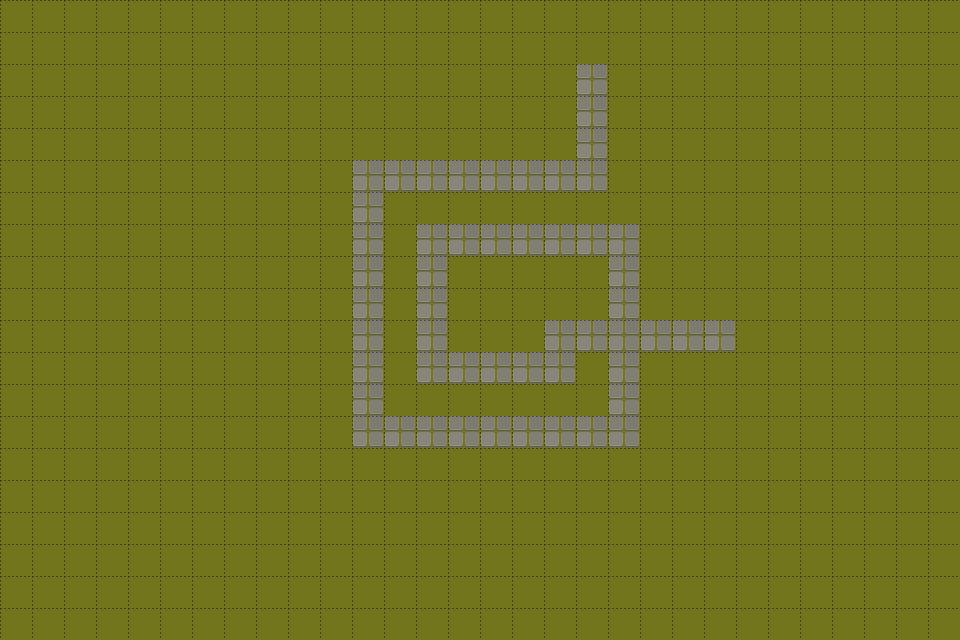
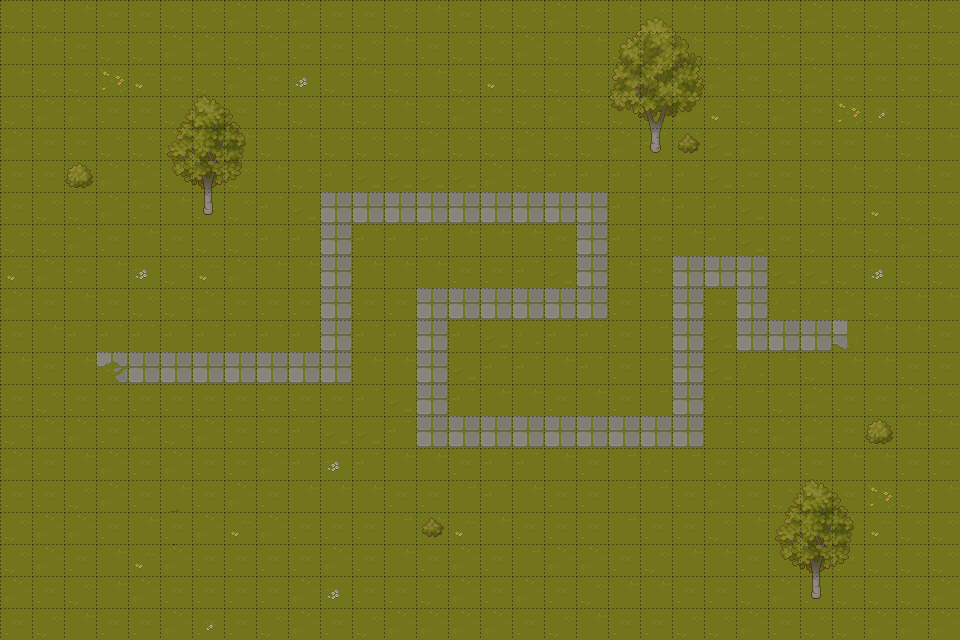
Add cancel button to defender menu

diff --git a/src/components/defender/DefenderMenu.js b/src/components/defender/DefenderMenu.js
@@ -7,10 +7,34 @@ import ButtonsConfig from '../../constants/ButtonsConfig';
 import utils from '../../helpers/utils';
 import Events from '../../constants/Events';
 
+const defenderMenuButtonsConfig = [
+    {
+        text: i18n.get('SELL'),
+        y: config.defenderMenu.sellButton.y,
+        property: '_sellButton',
+    },
+    {
+        text: i18n.get('CANCEL'),
+        y: config.defenderMenu.cancelButton.y,
+        property: '_cancelButton',
+    },
+];
+
+const defenderMenuTextConfig = [
+    {
+        text: `${i18n.get('REFUND')}:`,
+        x: config.defenderMenu.refund.x,
+        y: config.defenderMenu.refund.y,
+        property: '_refundText',
+    },
+];
+
 export default class DefenderMenu extends Container {
     constructor(){
         super();
         this._defender = null;
+        this._sellButton = null;
+        this._cancelButton = null;
         this._refundText = null;
 
         this.interactive = true;
@@ -25,9 +49,8 @@ export default class DefenderMenu extends Container {
 
     _createComponents() {
         this._createBackground();
-        this._createCancelButton();
-        this._createSellButton();
-        this._createRefundText();
+        defenderMenuButtonsConfig.forEach(componentData => this._createButton(componentData));
+        defenderMenuTextConfig.forEach(componentData => this._createText(componentData));
     }
 
     _createBackground() {
@@ -39,52 +62,33 @@ export default class DefenderMenu extends Container {
         this.addChild(graphics);
     }
 
-    _createSellButton() { // todo create circle
-        const button = new Button({
+    _createButton({text = '', y = 0, property = ''}) {
+        this[property] = new Button({
             ...ButtonsConfig.DEFAULT,
-            text: i18n.get('SELL'),
+            text,
             style: Styles.DEFAULT.BUTTON
         });
-        button.x = this.width / 2;
-        button.y = config.defenderMenu.sellButton.y;
-        this.addChild(button);
-
-        button.on('pointerdown', this._sellDefender, this)
+        this[property].x = this.width / 2;
+        this[property].y = y;
+        this.addChild(this[property]);
     }
 
-    _createRefundText() {
-        const text = new Text({text: `${i18n.get('REFUND')}:`, style: Styles.DEFAULT.TITLE});
-        text.x = config.defenderMenu.refund.x;
-        text.y = config.defenderMenu.refund.y;
+    _createText({text = '', x = 0, y = 0, property = ''}) {
+        const title = new Text({text, style: Styles.DEFAULT.TITLE});
+        title.x = x;
+        title.y = y;
 
-        this._refundText = new Text({text: '', style: Styles.DEFAULT.VALUE});
-        this._refundText.anchor.x = 1;
-        this._refundText.x = this.width - config.defenderMenu.refund.x;
-        this._refundText.y = config.defenderMenu.refund.y;
-        this.addChild(text, this._refundText);
+        this[property] = new Text({text: '', style: Styles.DEFAULT.VALUE});
+        this[property].anchor.x = 1;
+        this[property].x = this.width - x;
+        this[property].y = y;
+        this.addChild(title, this[property]);
     }
 
     _sellDefender() {
         if (!this._defender) return;
 
         app.emit(Events.SELL_DEFENDER, this._defender);
-    }
-
-    _isPressedButton(event) {
-        return this.children.some(child => child.isEnabled && child === event.target);
-    }
-
-    _addListeners() {
-        app.on(Events.TOGGLE_DEFENDER_MENU, this._toggle, this);
-        this.on('pointerdown', event => {
-            if (this._isPressedButton(event)) return;
-            event.stopPropagation();
-        }, this);
-    }
-
-    _removeListeners() {
-        this.removeAllListeners();
-        app.off(Events.TOGGLE_DEFENDER_MENU, this._toggle, this);
     }
 
     _toggle(defender) {
@@ -99,6 +103,55 @@ export default class DefenderMenu extends Container {
         this._refundText.text = config.characters[this._defender.type].refund;
     }
 
+    _showCancelButton() {
+        this._hideAllComponents();
+        this._cancelButton.visible = true;
+    }
+
+    _hideCancelButton() {
+        this._showAllComponents();
+        this._cancelButton.visible = false;
+    }
+
+    _cancelDefenderSpawn() {
+        app.emit(Events.CANCEL_DEFENDER_SPAWN);
+        this._hideCancelButton();
+    }
+
+    _showAllComponents() {
+        this.children.forEach(child => child.visible = true);
+    }
+
+    _hideAllComponents() {
+        this.children.forEach(child => {
+            if (child instanceof Graphics) return;
+            child.visible = false;
+        });
+    }
+
+    _addListeners() {
+        this._sellButton.on('pointerdown', this._sellDefender, this);
+        this._cancelButton.on('pointerdown', this._cancelDefenderSpawn, this);
+        app.on(Events.SPAWN_DEFENDER, this._showCancelButton, this);
+        app.on(Events.BUY_DEFENDER, this._hideCancelButton, this);
+        app.on(Events.TOGGLE_DEFENDER_MENU, this._toggle, this);
+        this.on('pointerdown', event => {
+            if (this._isPressedButton(event)) return;
+            event.stopPropagation();
+        }, this);
+    }
+
+    _removeListeners() {
+        this.removeAllListeners();
+        this.children.forEach(child => child.removeAllListeners());
+        app.off(Events.SPAWN_DEFENDER, this._showCancelButton, this);
+        app.off(Events.TOGGLE_DEFENDER_MENU, this._toggle, this);
+    }
+
+    _isPressedButton(event) {
+        return this.children.some(child => child.isEnabled && child === event.target);
+    }
+
     resize(width = 0, height = 0) {
         utils.positionTopRight(this, width, height);
         this.y += config.defenderMenu.y;
@@ -111,6 +164,9 @@ export default class DefenderMenu extends Container {
 
     _clear() {
         this._removeListeners();
+        this._sellButton = null;
+        this._cancelButton = null;
+        this._refundText = null;
         this._defender = null;
     }
 }

diff --git a/src/config.js b/src/config.js
@@ -16,7 +16,7 @@ const config = {
             x: 480,
             y: 320
         },
-        safeWidth: 500,
+        safeWidth: 750,
         safeHeight: 500,
     },
     menu: {
@@ -39,17 +39,18 @@ const config = {
                 coins: 50,
                 startDuration: 10,
                 path: [
-                    { x: 606, y: 80 },
-                    { x: 606, y: 175 },
-                    { x: 355, y: 175 },
-                    { x: 355, y: 431 },
-                    { x: 639, y: 431 },
-                    { x: 639, y: 238, sort: 'backToFront' },
-                    { x: 420, y: 238, sort: 'frontToBack' },
-                    { x: 420, y: 366 },
-                    { x: 574, y: 366 },
-                    { x: 574, y: 334, sort: 'backToFront' },
-                    { x: 735, y: 334 },
+                    { x: 113, y: 368 },
+                    { x: 335, y: 368 },
+                    { x: 335, y: 205 },
+                    { x: 593, y: 205 },
+                    { x: 593, y: 301 },
+                    { x: 432, y: 301, sort: 'backToFront' },
+                    { x: 432, y: 432, sort: 'frontToBack' },
+                    { x: 687, y: 432 },
+                    { x: 687, y: 268 },
+                    { x: 752, y: 268 },
+                    { x: 752, y: 334, sort: 'backToFront' },
+                    { x: 832, y: 334 },
                 ],
                 cells: {
                     start: {x: 9, y: 3},
@@ -75,7 +76,7 @@ const config = {
     characters: {
         medusa: {
             animationSpeed: 0.15,
-            speed: 30,
+            speed: 50,
             health: 50,
             delay: 1,
             damage: 1,
@@ -169,6 +170,9 @@ const config = {
         color: 0x000000,
         sellButton: {
             y: 87
+        },
+        cancelButton: {
+            y: 105
         },
         refund: {
             x: 5,

diff --git a/src/states/LevelState.js b/src/states/LevelState.js
@@ -263,6 +263,7 @@ export default class LevelState extends State {
         this._disable();
         this._occupiedCells.push(cell);
         this._defenderContainer.buyDefender();
+        app.emit(Events.BUY_DEFENDER);
         this.off('pointermove', this._moveDefender, this);
         this.off('pointerdown', this._buyDefender, this);
     }
@@ -282,10 +283,7 @@ export default class LevelState extends State {
     }
 
     _listenToggleDefenderMenu() {
-        if (this._isEnabled) return;
-
         this._enable();
-        this.cursor = 'default';
         this.on('pointerdown', this._toggleDefenderMenu, this);
     }
 
@@ -295,8 +293,15 @@ export default class LevelState extends State {
         this.off('pointerdown', this._toggleDefenderMenu, this);
     }
 
+    _cancelDefenderSpawn() {
+        this._defenderContainer.cancelDefenderSpawn();
+        this.off('pointermove', this._moveDefender, this);
+        this.off('pointerdown', this._buyDefender, this);
+    }
+
     _addListeners() {
         super._addListeners();
+        app.on(Events.CANCEL_DEFENDER_SPAWN, this._cancelDefenderSpawn, this);
         app.on(Events.SPAWN_DEFENDER, this._spawnDefender, this);
         app.on(Events.DESTROY_DEFENDER, this._destroyDefender, this);
         app.on(Events.TOGGLE_DEFENDER_MENU, this._listenToggleDefenderMenu, this);
@@ -304,8 +309,10 @@ export default class LevelState extends State {
 
     _removeListeners() {
         super._removeListeners();
+        app.off(Events.CANCEL_DEFENDER_SPAWN, this._cancelDefenderSpawn, this);
         app.off(Events.SPAWN_DEFENDER, this._spawnDefender, this);
         app.off(Events.DESTROY_DEFENDER, this._destroyDefender, this);
+        app.off(Events.TOGGLE_DEFENDER_MENU, this._listenToggleDefenderMenu, this);
     }
 
     _resize(width = 0, height = 0) {

diff --git a/src/components/defender/DefenderContainer.js b/src/components/defender/DefenderContainer.js
@@ -19,6 +19,7 @@ export default class DefenderContainer extends Container{
         const defender = new Defender(type);
         defender.spawn(x, y);
         this._defenders.push(defender);
+        app.emit(Events.TOGGLE_DEFENDER_MENU, defender);
         return this.addChild(defender);
     }
 
@@ -41,6 +42,13 @@ export default class DefenderContainer extends Container{
         this._setDefenderReady(defender);
         defender.activate();
         defender.buy();
+    }
+
+    cancelDefenderSpawn() {
+        const defender = this._getLastDefender();
+        if (!defender) return;
+
+        this._destroyDefender(defender);
     }
 
     _removeDefenderReady(defender) {

diff --git a/src/constants/Events.js b/src/constants/Events.js
@@ -5,10 +5,11 @@ const Events = {
     SPAWN_DEFENDER: 'SPAWN_DEFENDER',
     DESTROY_DEFENDER: 'DESTROY_DEFENDER',
     SELL_DEFENDER: 'SELL_DEFENDER',
+    CANCEL_DEFENDER_SPAWN: 'CANCEL_DEFENDER_SPAWN',
     DEFENDER_COOLDOWN_START: 'DEFENDER_COOLDOWN_START',
     DEFENDER_COOLDOWN_COMPLETE: 'DEFENDER_COOLDOWN_COMPLETE',
-    HIDE_DEFENDER_MENU: 'HIDE_DEFENDER_MENU',
     TOGGLE_DEFENDER_MENU: 'TOGGLE_DEFENDER_MENU',
+    BUY_DEFENDER: 'BUY_DEFENDER',
 
     ENEMY_KILLED: 'ENEMY_KILLED',
 

diff --git a/src/components/Enemy.js b/src/components/Enemy.js
@@ -79,7 +79,7 @@ export default class Enemy extends Character {
         this._setHealth(0);
         gsap.killTweensOf(this);
         app.emit(Events.UPDATE_COINS, this._characterConfig.coins);
-        this._hideAllElements();
+        this._hideAllComponents();
         this._showCoins(this._characterConfig.coins).then(() => {
             app.emit(Events.ENEMY_KILLED, this);
         });

diff --git a/src/components/HUD.js b/src/components/HUD.js
@@ -60,7 +60,7 @@ export default class HUD extends Container {
         this.addChild(graphics);
     }
 
-    _createComponent({title = '', y = 0, property}) {
+    _createComponent({title = '', y = 0, property = ''}) {
         const text = new Text({text: title, style: Styles.DEFAULT.TITLE});
         text.y = y;
         text.x = config.hud.stats.x;

diff --git a/src/components/defender/Defender.js b/src/components/defender/Defender.js
@@ -66,7 +66,7 @@ export default class Defender extends Character {
     }
 
     sell() {
-        this._hideAllElements();
+        this._hideAllComponents();
         return this._showCoins(this._characterConfig.refund).then(() => {
             app.emit(Events.UPDATE_COINS, this._characterConfig.refund);
         });

diff --git a/src/components/Character.js b/src/components/Character.js
@@ -112,7 +112,7 @@ export default class Character extends Container {
         }).then();
     }
 
-    _hideAllElements() {
+    _hideAllComponents() {
         this.children.forEach(child => child.visible = false);
     }
 

diff --git a/src/locales/en.js b/src/locales/en.js
@@ -8,4 +8,5 @@ export default {
     COST: 'Cost',
     SELL: 'Sell',
     REFUND: 'Refund',
+    CANCEL: 'Cancel',
 };
